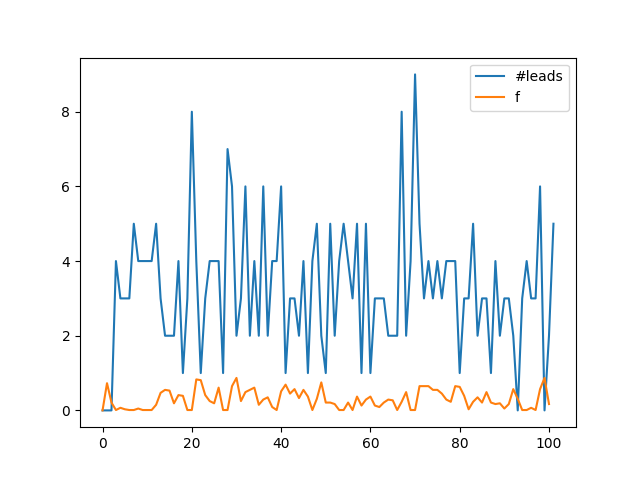
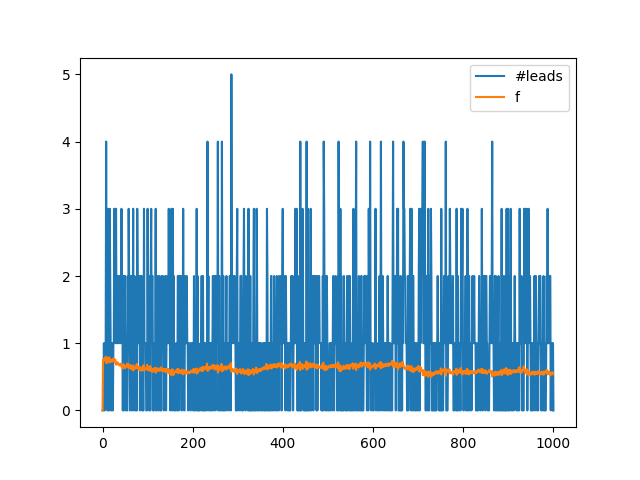
shuffle crawler steps, remove headstart

diff --git a/auto_crawler_takahashi.py b/auto_crawler_takahashi.py
@@ -4,21 +4,23 @@ from threading import Thread
 AVG_LEN = 5
 
 KC_STEP=0.1
-KC_SEARCH=-2.1
+KC_SEARCH=-0.25
+
+
+TD_STEP=0.01
+TD_SEARCH=0.3
 
 TI_STEP=0.01
 TI_SEARCH=-0.6
 
-TD_STEP=0.01
-TD_SEARCH=0.25
 
 TS_STEP=0.01
-TS_SEARCH=-0.35
+TS_SEARCH=-0.3
 
 
 EPSILON=0.0001
-RUNNING_TIME=100
-NODES=500
+RUNNING_TIME=1000
+NODES=1000
 
 highest_acc = 0
 
@@ -48,7 +50,7 @@ debug_str = input("debug mode (y/n):")
 debug = True if debug_str.lower()=="y" else False
 
 def experiment(accs=[], controller_type=CONTROLLER_TYPE_TAKAHASHI, kp=0, ki=0, kd=0, kc=0, ti=0, td=0, ts=0, distribution=[], hp=False):
-    dt = DarkfiTable(sum(distribution), RUNNING_TIME, controller_type, kp=kp, ki=ki, kd=kd, kc=kc, td=td, ti=ti, ts=0)
+    dt = DarkfiTable(sum(distribution), RUNNING_TIME, controller_type, kp=kp, ki=ki, kd=kd, kc=kc, td=td, ti=ti, ts=ts)
     RND_NODES = random.randint(5, NODES) if randomize_nodes else NODES
     for idx in range(0,RND_NODES):
         darkie = Darkie(distribution[idx])
@@ -61,22 +63,24 @@ def experiment(accs=[], controller_type=CONTROLLER_TYPE_TAKAHASHI, kp=0, ki=0, k
 def multi_trial_exp(kc, td, ti, ts, distribution = [], hp=False):
     global highest_acc
     global highest_gain
+    new_record = False
     exp_threads = []
     accs = []
     for i in range(0, AVG_LEN):
         acc = experiment(accs, CONTROLLER_TYPE_DISCRETE, kc=kc, ti=ti, td=td, ts=ts, distribution=distribution, hp=hp)
         accs += [acc]
     avg_acc = sum(accs)/float(AVG_LEN)
-    buff = 'accuracy:{}, kc: {}, ti:{}, td:{}, ts:{}'.format(avg_acc, kc, td, ti, ts)
+    buff = 'accuracy:{}, kc: {}, td:{}, ti:{}, ts:{}'.format(avg_acc, kc, td, ti, ts)
     if avg_acc > 0:
         gain = (kc, td, ti, ts)
         acc_gain = (avg_acc, gain)
         if avg_acc > highest_acc:
+            new_record = True
             highest_acc = avg_acc
             highest_gain = gain
             with open("highest_gain_takadashi.txt", 'w') as f:
                 f.write(buff)
-    return buff
+    return buff, new_record
 
 SHIFTING = 0.05
 
@@ -90,21 +94,27 @@ def crawler(crawl, range_multiplier, step=0.1):
         start = highest_gain[2]
     elif crawl==TS:
         start = highest_gain[3]
-    range_start = (start*range_multiplier if start <=0 else -1*start) - SHIFTING
-    range_end = (-1*start if start<=0 else range_multiplier*start) + SHIFTING
+    range_start = (start*range_multiplier if start <=0 else -1*start)
+    range_end = (-1*start if start<=0 else range_multiplier*start)
     # if number of steps under 10 step resize the step to 50
-    if (range_end-range_start)/step < 10:
-        step = (range_end-range_start)/50
+    while (range_end-range_start)/step < 10:
+        range_start -= SHIFTING
+        range_end += SHIFTING
+        step /= 10
 
-    crawl_range = tqdm(np.arange(range_start, range_end, step))
+    crawl_range = np.arange(range_start, range_end, step)
+    np.random.shuffle(crawl_range)
+    crawl_range = tqdm(crawl_range)
     distribution = [random.random()*NODES for i in range(NODES)]
     for i in crawl_range:
         kc = i if crawl==KC else highest_gain[0]
         ti = i if crawl==TI else highest_gain[1]
         td = i if crawl==TD else highest_gain[2]
         ts = i if crawl==TS else highest_gain[3]
-        buff = multi_trial_exp(kc, td, ti, ts, distribution, hp=high_precision)
+        buff, new_record = multi_trial_exp(kc, td, ti, ts, distribution, hp=high_precision)
         crawl_range.set_description('highest:{} / {}'.format(highest_acc, buff))
+        if new_record:
+            break
 
 while True:
     prev_highest_gain = highest_gain
@@ -128,6 +138,20 @@ while True:
             # range also should be > 0.8
             # what about range multiplier?
 
+    # td crawl
+    crawler(TD, TD_RANGE_MULTIPLIER, TD_STEP)
+    if highest_gain[2] == prev_highest_gain[2]:
+        TD_RANGE_MULTIPLIER+=1
+        TD_STEP/=10
+    else:
+        start = highest_gain[2]
+        range_start = (start*TD_RANGE_MULTIPLIER if start <=0 else -1*start) - SHIFTING
+        range_end = (-1*start if start<=0 else TD_RANGE_MULTIPLIER*start) + SHIFTING
+        while (range_end - range_start)/TD_STEP >500:
+            if TD_STEP < 0.1:
+                TD_STEP*=10
+            TD_RANGE_MULTIPLIER-=1
+
     # ti crawl
     crawler(TI, TI_RANGE_MULTIPLIER, TI_STEP)
     if highest_gain[1] == prev_highest_gain[1]:
@@ -141,19 +165,6 @@ while True:
             if TP_STEP < 0.3:
                 TI_STEP*=10
             TI_RANGE_MULTIPLIER-=1
-    # td crawl
-    crawler(TD, KD_RANGE_MULTIPLIER, KD_STEP)
-    if highest_gain[2] == prev_highest_gain[2]:
-        TD_RANGE_MULTIPLIER+=1
-        TD_STEP/=10
-    else:
-        start = highest_gain[2]
-        range_start = (start*TD_RANGE_MULTIPLIER if start <=0 else -1*start) - SHIFTING
-        range_end = (-1*start if start<=0 else TD_RANGE_MULTIPLIER*start) + SHIFTING
-        while (range_end - range_start)/TD_STEP >500:
-            if TD_STEP < 0.1:
-                TD_STEP*=10
-            TD_RANGE_MULTIPLIER-=1
 
     # tS crawl
     crawler(TS, TS_RANGE_MULTIPLIER, TS_STEP)

diff --git a/auto_crawler.py b/auto_crawler.py
@@ -13,8 +13,8 @@ KD_STEP=0.01
 KD_SEARCH=-0.030000000000002663
 
 EPSILON=0.0001
-RUNNING_TIME=100
-NODES=500
+RUNNING_TIME=1000
+NODES=1000
 
 highest_acc = 0
 
@@ -55,6 +55,7 @@ def experiment(accs=[], controller_type=CONTROLLER_TYPE_DISCRETE, kp=0, ki=0, kd
 def multi_trial_exp(kp, ki, kd, distribution = [], hp=False):
     global highest_acc
     global highest_gain
+    new_record=False
     exp_threads = []
     accs = []
     for i in range(0, AVG_LEN):
@@ -66,11 +67,12 @@ def multi_trial_exp(kp, ki, kd, distribution = [], hp=False):
         gain = (kp, ki, kd)
         acc_gain = (avg_acc, gain)
         if avg_acc > highest_acc:
+            new_record = True
             highest_acc = avg_acc
             highest_gain = (kp, ki, kd)
             with open("highest_gain.txt", 'w') as f:
                 f.write(buff)
-    return buff
+    return buff, new_record
 
 SHIFTING = 0.05
 
@@ -83,20 +85,26 @@ def crawler(crawl, range_multiplier, step=0.1):
     elif crawl==KD:
         start = highest_gain[2]
 
-    range_start = (start*range_multiplier if start <=0 else -1*start) - SHIFTING
-    range_end = (-1*start if start<=0 else range_multiplier*start) + SHIFTING
+    range_start = (start*range_multiplier if start <=0 else -1*start)
+    range_end = (-1*start if start<=0 else range_multiplier*start)
     # if number of steps under 10 step resize the step to 50
-    if (range_end-range_start)/step < 10:
-        step = (range_end-range_start)/50
+    while (range_end-range_start)/step < 10:
+        range_start -= SHIFTING
+        range_end += SHIFTING
+        step /= 10
 
-    crawl_range = tqdm(np.arange(range_start, range_end, step))
+    crawl_range = np.arange(range_start, range_end, step)
+    np.random.shuffle(crawl_range)
+    crawl_range = tqdm(crawl_range)
     distribution = [random.random()*NODES for i in range(NODES)]
     for i in crawl_range:
         kp = i if crawl==KP else highest_gain[0]
         ki = i if crawl==KI else highest_gain[1]
         kd = i if crawl==KD else highest_gain[2]
-        buff = multi_trial_exp(kp, ki, kd, distribution, hp=high_precision)
+        buff, new_record = multi_trial_exp(kp, ki, kd, distribution, hp=high_precision)
         crawl_range.set_description('highest:{} / {}'.format(highest_acc, buff))
+        if new_record:
+            break
 
 while True:
     prev_highest_gain = highest_gain

diff --git a/instance.py b/instance.py
@@ -8,12 +8,12 @@ RUNNING_TIME = int(input("running time:"))
 
 if __name__ == "__main__":
     darkies = []
-    darkies += [ Darkie(random.gauss(20,20)*50) for id in range(100) ]
+    darkies += [ Darkie(random.gauss(20,20)*50) for id in range(100000) ]
     airdrop = 0
     for darkie in darkies:
         airdrop+=darkie.stake
     print("network airdrop: {} on {} nodes".format(airdrop, len(darkies)))
-    dt = DarkfiTable(airdrop, RUNNING_TIME, CONTROLLER_TYPE_DISCRETE, kp=0.18, ki=0.02, kd=-0.1)
+    dt = DarkfiTable(airdrop, RUNNING_TIME, CONTROLLER_TYPE_DISCRETE, kp=0.005999999999989028, ki=-0.005999999985257798, kd=0.01299999999999478)
     for darkie in darkies:
         dt.add_darkie(darkie)
     acc = dt.background(rand_running_time=False)

diff --git a/darkie.py b/darkie.py
@@ -25,7 +25,7 @@ class Darkie(Thread):
             x = (Num(1) if hp else 1)  - (Num(tune_parameter) if hp else tune_parameter)
             c = (x.ln() if type(x)==Num else math.log(x))
             sigmas = [   c/((self.Sigma+EPSILON)**i) * ( ((L_HP if hp else L)/fact(i)) ) for i in range(1, k+1) ]
-            scaled_target = approx_target_in_zk(sigmas, stake) + (BASE_L_HP if hp else BASE_L)
+            scaled_target = approx_target_in_zk(sigmas, stake) #+ (BASE_L_HP if hp else BASE_L)
             return scaled_target
         T = target(self.f, self.finalized_stake)
         self.won = lottery(T, hp)
